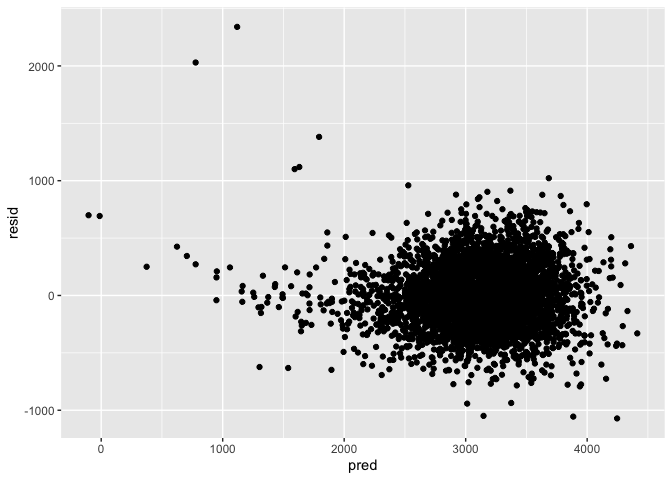
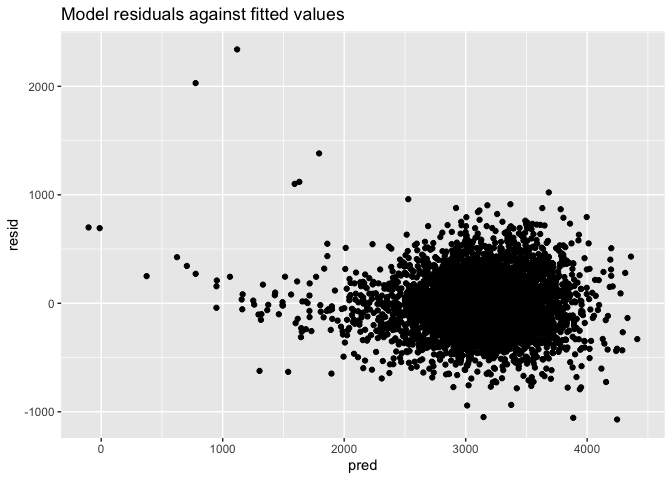
adding comments and descriptions for p1

diff --git a/p8105_hw6_jf3285.md b/p8105_hw6_jf3285.md
@@ -5,23 +5,41 @@ Jiarui Fu
 
 ## Problem 1
 
+After observing that the ‘parity’, ‘pnumlbw’, and ‘pnumsga’ columns are
+all zero, these three columns are removed from the dataset. The
+categorical variables are converted from numeric to factor, recoded and
+ordered based most frequent to infrequent. First, a linear model with
+all the variables inside is used to see if there’s a good fit, and based
+on the summary result, non-significant predictors (large p-value) are
+removed from the model. Then, several attempts are made to find out the
+interactions between these predictors: baby’s head circumference is
+strongly associated with mother’s race and baby’s length at birth also
+depends on the average number of cigarettes mothers smoked per day
+during pregnancy.
+
 ``` r
+# load and clean the data
 birthweight = read.csv("data/birthweight.csv") 
 birthweight_clean = birthweight %>%  
+  # select important columns only
   select(-parity, -pnumlbw, -pnumsga) %>%
+  # as factor(categorical variables)
   mutate(babysex = factor(babysex),
          frace = factor(frace),
          malform = factor(malform),
          mrace = factor(mrace)) %>% 
+  # order based on frequency
   mutate(babysex = fct_infreq(babysex),
          frace = fct_infreq(frace),
          malform = fct_infreq(malform),
          mrace = fct_infreq(mrace)) %>% 
+  # recode categorical variables
   mutate(babysex = recode(babysex, "1" = "male", "2" = "female"),
          frace = recode(frace, "1" = "White", "2" = "Black", "3" = "Asian", "4" = "Puerto Rican", "8" = "Other", "9" = "Unknown"),
          malform = recode(malform, "0" = "absent", "1" = "present"),
          mrace = recode(mrace, "1" = "White", "2" = "Black", "3" = "Asian", "4" = "Puerto Rican", "8" = "Other"))
 
+# lm using all the variables
 fit0 = lm(bwt ~ ., data = birthweight_clean)
 summary(fit0)
 ```
@@ -66,9 +84,11 @@ summary(fit0)
     ## F-statistic:   550 on 20 and 4321 DF,  p-value: < 2.2e-16
 
 ``` r
+# select variables of interest
 birthweight_fit = birthweight_clean %>% 
   select(babysex, bhead, blength, bwt, gaweeks, mrace, smoken, wtgain) 
 
+# propose a model
 fit = lm(bwt ~ babysex + gaweeks + bhead * mrace + blength * smoken + wtgain, data = birthweight_fit)
 summary(fit)
 ```
@@ -106,10 +126,11 @@ summary(fit)
     ## F-statistic:   835 on 13 and 4328 DF,  p-value: < 2.2e-16
 
 ``` r
+# plot of model residuals against fitted values
 birthweight_clean %>% 
   modelr::add_residuals(fit) %>% 
   modelr::add_predictions(fit) %>% 
-  ggplot(aes(x = pred, y = resid)) + geom_point() 
+  ggplot(aes(x = pred, y = resid)) + geom_point() + ggtitle("Model residuals against fitted values")
 ```
 
 ![](p8105_hw6_jf3285_files/figure-gfm/unnamed-chunk-1-1.png)<!-- -->
@@ -170,6 +191,7 @@ summary(model2)
     ## F-statistic:  1346 on 7 and 4334 DF,  p-value: < 2.2e-16
 
 ``` r
+# cross-validated prediction error
 cv_df = crossv_mc(birthweight_fit, 100)
 cv_df = 
   cv_df %>% 
@@ -180,6 +202,7 @@ cv_df =
          rmse_model1 = map2_dbl(model1, test, ~rmse(model = .x, data = .y)),
          rmse_model2 = map2_dbl(model2, test, ~rmse(model = .x, data = .y)))
 
+# plot of cross-validated prediction error
 cv_df %>% 
   select(starts_with("rmse")) %>% 
   pivot_longer(
@@ -188,10 +211,17 @@ cv_df %>%
     values_to = "rmse",
     names_prefix = "rmse_") %>% 
   mutate(model = fct_inorder(model)) %>% 
-  ggplot(aes(x = model, y = rmse)) + geom_violin()
+  ggplot(aes(x = model, y = rmse)) + geom_violin() + ggtitle("Cross-validated prediction error for different models")
 ```
 
 ![](p8105_hw6_jf3285_files/figure-gfm/unnamed-chunk-1-2.png)<!-- -->
+
+It can be seen in the first residual plot that the residuals are
+randomly distributed near the zero line, except those outliers with
+extremely low predicted values. The second cross-validated prediction
+error plot shows that my model ‘fit’ has a lower prediction error and
+thus higher predictive accuracy compared to the other two candidate
+models.
 
 ## Problem 2
 
@@ -250,15 +280,15 @@ bootstrap_beta %>%
 quantile(bootstrap_beta$beta_product, 0.025)
 ```
 
-    ##     2.5% 
-    ## 1.965492
+    ##    2.5% 
+    ## 1.96652
 
 ``` r
 quantile(bootstrap_beta$beta_product, 0.975)
 ```
 
     ##    97.5% 
-    ## 2.060605
+    ## 2.060518
 
 ``` r
 bootstrap_rsq = 
@@ -276,11 +306,11 @@ quantile(bootstrap_rsq$`r.squared`, 0.025)
 ```
 
     ##      2.5% 
-    ## 0.8940457
+    ## 0.8945934
 
 ``` r
 quantile(bootstrap_rsq$`r.squared`, 0.975)
 ```
 
     ##     97.5% 
-    ## 0.9268493
+    ## 0.9269407
